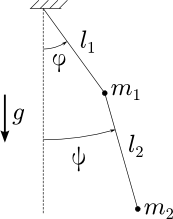
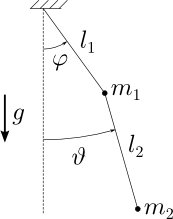
Added box docs (GridGenerator). Enhanced: docs for DoublePendulum, Ince-Strutt diagram example, docs for FdeIterator.

diff --git a/equares_http/public/meta/doc/box/DoublePendulum.md b/equares_http/public/meta/doc/box/DoublePendulum.md
@@ -1,6 +1,6 @@
 ### Differential equations
 Classical double pendulum consists of two point masses, $m_1$ and $m_2$, connected by rigid rods of lengths $l_1$ and $l_2$, with a joint at $m_2$. One end of first rod is fixed.
-The point masses move in vertical plane, so the configuration of the system can be described by two angles, $\varphi$ and $\psi$, between rods and the vertical line &mdash; see
+The point masses move in vertical plane, so the configuration of the system can be described by two angles, $\varphi$ and $\vartheta$, between rods and the vertical line &mdash; see
 figure below. The system is placed in the constant gravity field, so that the gravity acceleration $g$ acts in the vertical direction.
 
 ![](/img/-/double-pendulum.png)
@@ -8,8 +8,8 @@ figure below. The system is placed in the constant gravity field, so that the gr
 The equations of motion of the double pendulum are as follows.
 
 $$\begin{array}{rcccrcl}
-(m_1+m_2) l_1^2\ddot\varphi &+& m_2 l_1 l_2\left[\cos(\psi-\varphi)\ddot\psi - \sin(\psi-\varphi)\dot\psi^2\right] &+& g(m_1+m_2)\sin\varphi &=& 0,\\
-m_2 l_2^2\ddot\psi &+& m_2 l_1 l_2\left[\cos(\psi-\varphi)\ddot\varphi - \sin(\psi-\varphi)\dot\varphi^2\right] &+& g m_2\sin\psi &=& 0.
+(m_1+m_2) l_1^2\ddot\varphi &+& m_2 l_1 l_2\left[\cos(\vartheta-\varphi)\ddot\vartheta - \sin(\vartheta-\varphi)\dot\vartheta^2\right] &+& g(m_1+m_2)\sin\varphi &=& 0,\\
+m_2 l_2^2\ddot\vartheta &+& m_2 l_1 l_2\left[\cos(\vartheta-\varphi)\ddot\varphi - \sin(\vartheta-\varphi)\dot\varphi^2\right] &+& g m_2\sin\vartheta &=& 0.
 \end{array}
 $$
 
@@ -18,11 +18,11 @@ They can be obtained by considering ?[Lagrange equations of the second kind](htt
 The double pendulum system is known to show quasi-periodic or chaotic behavior, depending on initial conditions.
 
 ### Data processing
-The box obtains its parameters, $l_1$, $m_1$, $l_2$, $m_2$, and $g$, from the **parameters** port, and its state variables, $\varphi$, $\psi$, $\dot\varphi$, $\dot\psi$, and the time, $t$,
+The box obtains its parameters, $l_1$, $m_1$, $l_2$, $m_2$, and $g$, from the **parameters** port, and its state variables, $\varphi$, $\vartheta$, $\dot\varphi$, $\dot\vartheta$, and the time, $t$,
 from the **state** port (on that port, =[data hints](/doc#page/general-data) for state variables and time are **q1**, **q2**, **dq1**, **dq2**, **t** respectively).
 
 Once data on both ports is available, the box outputs ODE right hand side each time any of the inputs obtains a new data frame.
-The right hand side $\dot\varphi$, $\dot\psi$, $\ddot\varphi$ $\ddot\psi$ is then written to the **oderhs** port (on that port, data hints for elements are **dq1**, **dq2**, **d2q1**, and **d2q2** respectively).
+The right hand side $\dot\varphi$, $\dot\vartheta$, $\ddot\varphi$ $\ddot\vartheta$ is then written to the **oderhs** port (on that port, data hints for elements are **dq1**, **dq2**, **d2q1**, and **d2q2** respectively).
 
 The **state** and **oderhs** ports can be connected, for example, to the **rhsState** and **rhs** ports of an =[ODE solver](/doc#box/Rk4) box respectively,
 and the **parameters** port can be connected to the output port of a [Param](/doc#box/Param) box.

diff --git a/equares_http/public/meta/doc/box/GridGenerator.md b/equares_http/public/meta/doc/box/GridGenerator.md
@@ -1,0 +1,54 @@
+### Overview
+This box produces a grid of values for each input data frame.
+Input data frames must be one-dimensional arrays.
+
+For each input data frame, the grid generator produces, $N$ output frames,
+
+$$
+  N = N_0 N_1\ldots N_{d-1},
+$$
+
+$d$ is the number of grid dimensions, and $N_k$ is the grid size in $k$-th dimension, $0\le k \lt d$.
+
+The grid consists of points ${\bf x}_I$. Each point is identified by multi-index $I=i_1,i_2,\ldots,i_d$
+(indices $i_k$ run from 0 to $N_k-1$) and has coordinates $x^1_K, x^2_K, \ldots, x^d_K$.
+
+Coordinates are computed as follows:
+
+$$
+x^k_K = (1-t) x^{k,\min} + t x^{k,\max}, \quad t = \frac{i_k}{N_k-1}.
+$$
+
+Therefore, $k$-th dimension of the grid is described by parameters $N_k$, $x^{k,\min}$, and $x^{k,\max}$.
+Each coordinate of each grid point replaces some component of input data frame. Dimension $k$ is tied to the
+index of component of input data frame to replace, so that index is one more grid dimension parameter.
+
+Output data frames are same as the input one, except that $d$ components are replaced by grid point coordinates $x^k_K$,
+for all values of multi-index $K$. As soon as there are $N$ points in the grid, $N$ output frames are produced per one input frame.
+
+The grid is defined by elements of the **param** parameter, which is an array.
+The length of the array is the number of grid dimensions, $d$.
+Each $k$-th element of the array is a structure defining the $k$-th grid dimension. It has the following fields:
+* **index** &mdash; index of element in the input frame to substitute with $k$-th coordinates of grid points, $x^k_K$.
+* **vmin** &mdash; minimum grid value, $x^{k,\min}$.
+* **vmax** &mdash; maximum grid value, $x^{k,\max}$.
+* **count** &mdash; number of grid values, $N_k$.
+
+### Data processing
+
+Once a data frame comes to the **input** port, the following happens.
+* $N$ frames are written to the **output** port &mdash; see overview above.
+* After that, an empty data frame is sent to the **flush** port.
+
+If a data frame comes to the **range** port, its data defines
+new values of $x^{k,\min}$ and $x^{k,\max}$, $k=1,\ldots,n$, and $n$ is the half (rounded down) of the number of elements
+in the data frame.
+This feature is typically used in combination with the =[RectInput](/doc#box/RectInput) box that supplies
+new ranges as user pans/zoom output image.
+
+### See also
+
+The following simulations show examples of usage for this box.
+* =[Ince-Strutt diagram](/editor?sim=mathieu-stability) &mdash; basic usage example;
+* =[Mandelbrot set](/editor?sim=mandelbrot) and =[Mandelbrot set (enhanced, color-1)](/editor?sim=mandelbrot-enhanced-color-1) &mdash;
+  a little bit more advanced examples, in which the **range** input port is employed.

diff --git a/equares_http/public/meta/doc/box/FdeIterator.md b/equares_http/public/meta/doc/box/FdeIterator.md
@@ -53,3 +53,4 @@ the FDE iterator will make the following assumptions about these ports:
     * =[Mandelbrot set](/editor?sim=mandelbrot) (simple example);
     * =[Chaos induced by logistic mapping](/editor?sim=logistic-mapping-chaos) (another simple example, shows how to use the **nskip** parameter);
     * =[Mandelbrot set (enhanced, color-1)](/editor?sim=mandelbrot-enhanced-color-1) (shows how to use the **stop** port).
+* The =[Rk4](/doc#box/Rk4) box is very similar to the FDE iterator but is designed to numerically solve ordinary differential equations (ODE).
